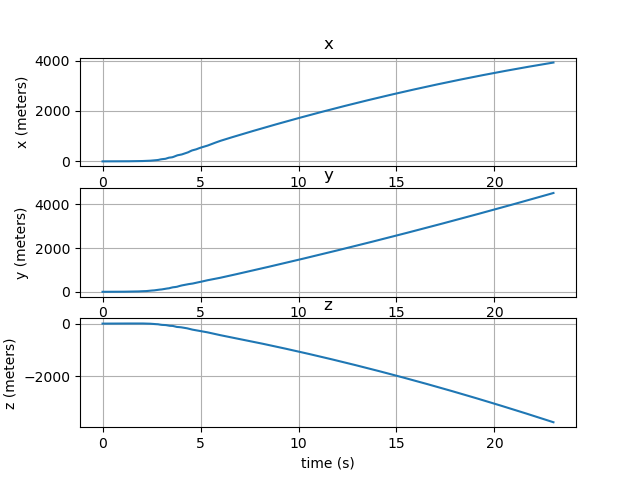
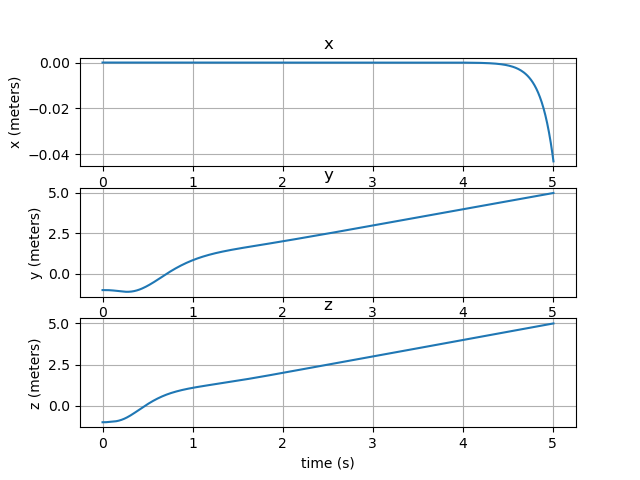
Fixed Reaction Torques - Now rotates correctly x

diff --git a/MultiRotorDynamics.py b/MultiRotorDynamics.py
@@ -143,10 +143,11 @@ class Controller():
 
     def calculate_errors(self, m, time, R_mat, ang_vel, t_vec, t_vec_dot):
         R_x = R.from_euler("zxy",np.array([0,np.pi,0])).as_matrix()
-        R_y = R.from_euler("zxy",np.array([0,0,np.pi/2])).as_matrix()
+        R_x2 = R.from_euler("zxy",np.array([0,np.pi/2,0])).as_matrix()
+        R_y = R.from_euler("zxy",np.array([0,0,-np.pi/2])).as_matrix()
         R_z = R.from_euler("zxy",np.array([np.pi/2,0,0])).as_matrix()
         print(R_mat)
-        R_mat = (R_z@R_x@R_mat)# This is because paper uses R as rotation from body frame to inertial frame as opposed to my implementation
+        R_mat = (R_x@R_mat)
         # R_mat = R_mat.T
 
         delta_t = self.TP.delta_t
@@ -160,12 +161,12 @@ class Controller():
         e_v = t_vec_dot - x_dot_d
 
         #Calculate R_d
-        ctrl = -self.k_x*e_x - self.k_v*e_v-m*g*e3+m*x_dot_dot_d
+        ctrl = -self.k_x*e_x - self.k_v*e_v+m*g*e3+m*x_dot_dot_d
         b3_d = -ctrl/np.linalg.norm(ctrl)
         cross31 = np.cross(b3_d,b1_d)
         b2_d = cross31/np.linalg.norm(cross31)
         b1_d_new = np.cross(b2_d,b3_d)
-        R_d = np.array([b1_d_new, b2_d,b3_d])
+        R_d = np.array([b1_d_new,b2_d,b3_d]).T
         
         
         #Calculate ang_vel
@@ -196,13 +197,17 @@ class Controller():
         R_z = R.from_euler("zxy",np.array([np.pi/2,0,0])).as_matrix()
         # R_mat = (R_x@R_mat@R_x.T).T # This is because paper uses R as rotation from body frame to inertial frame as opposed to my implementation
         # R_mat = R_mat.T
-        R_mat = (R_z@R_x@R_mat)
+        R_mat = (R_x@R_mat)
         R_d = self.TP.prev_R_d
         e3 = np.array([0,0,1],dtype = float)
         x_dot_dot_d = self.traj[2]
         
-        f = -(-self.k_x*e_x-self.k_v*e_v-m*g*e3+m*x_dot_dot_d)@R_mat@e3 
+        print(-(-self.k_x*e_x-self.k_v*e_v+m*g*e3+m*x_dot_dot_d))
+        print(R_mat@e3 )
+        print(-(-self.k_x*e_x-self.k_v*e_v+m*g*e3+m*x_dot_dot_d)@R_mat@e3 )
+        f = -(-self.k_x*e_x-self.k_v*e_v+m*g*e3+m*x_dot_dot_d)@R_mat@e3 
         M = -self.k_R*e_R-self.k_omega*e_omega+ut.skew(ang_vel)@J@ang_vel-J@(ut.skew(ang_vel)@R_mat.T@R_d@self.TP.prev_ang_vel_d-R_mat.T@R_d@self.TP.ang_vel_dot_d)
+        
         return f, M
     
     def calculate_allocation_matrix(self, rotors):
@@ -233,7 +238,7 @@ class Controller():
         rotor_forces = self.force_allocation(f, M)
         
         
-        # print(f"rotor_forces : {rotor_forces}")
+        print(f"rotor_forces : {rotor_forces}")
         return rotor_forces
 
 
@@ -363,7 +368,7 @@ class MultiRotor:
     def calculate_reaction_torque_bf(self):
         sum_torque = np.zeros((3,))
         for rotor in self.rotors:
-            sum_torque += np.reshape(rotor.get_force_bf()*rotor.C_q/rotor.C_t,(3,))*np.sign(rotor.get_rps())
+            sum_torque += np.reshape(rotor.get_force_bf()*rotor.C_q/rotor.C_t,(3,))*rotor.sigma
         return sum_torque
     
     def calculate_sum_of_torques_bf(self):
@@ -391,9 +396,10 @@ class MultiRotor:
     def simulate_timestep(self,delta_t,obst_wf):
         
         forces_bf = self.calculate_sum_of_forces_bf()
-        print(self.R@forces_bf)
+        print(f"Forces in world frame: {self.R@forces_bf}")
         #Pose
         self.t_vec += self.t_vec_dot*delta_t #1a)
+        print(f"x = {self.t_vec}")
         self.R += self.R_dot*delta_t
 
         #Double transform to maintain SO(3) (Kinda cheating), Should not be included when using ode45

diff --git a/main.py b/main.py
@@ -33,16 +33,16 @@ magnet_bias = np.array([0,0,0],dtype=float)
 
 #Simulation parameters
 delta_t = 0.01 #seconds
-max_time = 23
+max_time = 5
 obst_wf = np.ones((3,3))*2
 obst_wf[2,2] = 5
 obst_wf[1,1] = 4
 obst_wf[0,0] = 5
 
 #controller parameters
-k_x = 100*m_total 
+k_x = 16*m_total 
 k_v = 5.6*m_total
-k_R = 10
+k_R = 8.81
 k_omega = 2.54
 
 #Trajectory
@@ -59,16 +59,16 @@ def main():
     TrajectoryPlanner = mrd.TrajectoryPlanner(delta_t,max_time,x_d,b1_d)
     
     #Normal Quadrotor rotors
-    rotors.append(mrd.Rotor(m_rotor,np.array([0,0,0],dtype=float),np.array([d,0,0],dtype=float),0,C_q,C_t,-1))
-    rotors.append(mrd.Rotor(m_rotor,np.array([0,0,0],dtype=float),np.array([0,d,0],dtype=float),0,C_q,C_t,1))
-    rotors.append(mrd.Rotor(m_rotor,np.array([0,0,0],dtype=float),np.array([-d,0,0],dtype=float),0,C_q,C_t,-1))
-    rotors.append(mrd.Rotor(m_rotor,np.array([0,0,0],dtype=float),np.array([0,-d,0],dtype=float),0,C_q,C_t,1))
+    rotors.append(mrd.Rotor(m_rotor,np.array([0,0,0],dtype=float),np.array([d,0,0],dtype=float),20,C_q,C_t,-1))
+    rotors.append(mrd.Rotor(m_rotor,np.array([0,0,0],dtype=float),np.array([0,d,0],dtype=float),-20,C_q,C_t,1))
+    rotors.append(mrd.Rotor(m_rotor,np.array([0,0,0],dtype=float),np.array([-d,0,0],dtype=float),20,C_q,C_t,-1))
+    rotors.append(mrd.Rotor(m_rotor,np.array([0,0,0],dtype=float),np.array([0,-d,0],dtype=float),-20,C_q,C_t,1))
     Controller = mrd.Controller(k_x,k_v,k_R,k_omega,TrajectoryPlanner, rotors)
-    dep_cams.append(mrd.DepthCamera(m_dep_cam, rot_vec=np.array([0.1,0,0],dtype=float), t_vec=np.array([0,0,d],dtype=float),AoV=AoV,K = K,res = res))
+    dep_cams.append(mrd.DepthCamera(m_dep_cam, rot_vec=np.array([0,0,0],dtype=float), t_vec=np.array([0,0,d],dtype=float),AoV=AoV,K = K,res = res))
     
     quad = mrd.MultiRotor(m_centroid,
                           rot_vec=np.array([0,0,0],dtype=float),
-                          t_vec=np.array([0,0,0],dtype=float),
+                          t_vec=np.array([0,-1,-1],dtype=float),
                           ang_vel=np.array([0,0,0],dtype=float),
                           rotors=rotors,
                           dep_cams = dep_cams,
@@ -80,6 +80,8 @@ def main():
     print(f"Sum of Torque From Thrust: {quad.calculate_torque_from_thrust_bf()}")
     print(f"Sum of Torque From Thrust: {quad.calculate_torque_from_gravity_bf()}")
     print(f"Sum of Reaction Torque: {quad.calculate_reaction_torque_bf()}")
+    # for i in range(int(6)):
+    #     quad.simulate_timestep(delta_t,obst_wf)
     for i in range(int(max_time/delta_t)):
         quad.simulate_timestep(delta_t,obst_wf)
         
